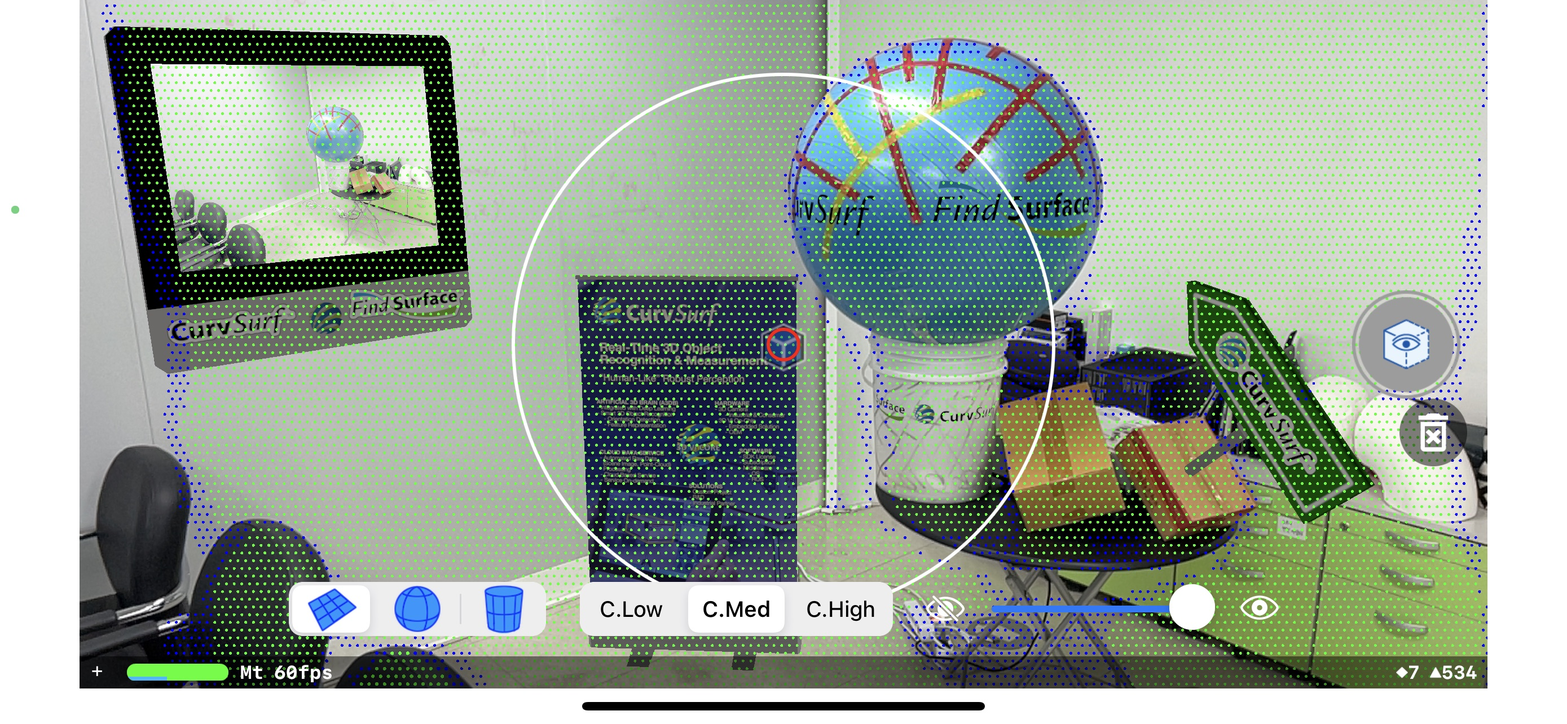
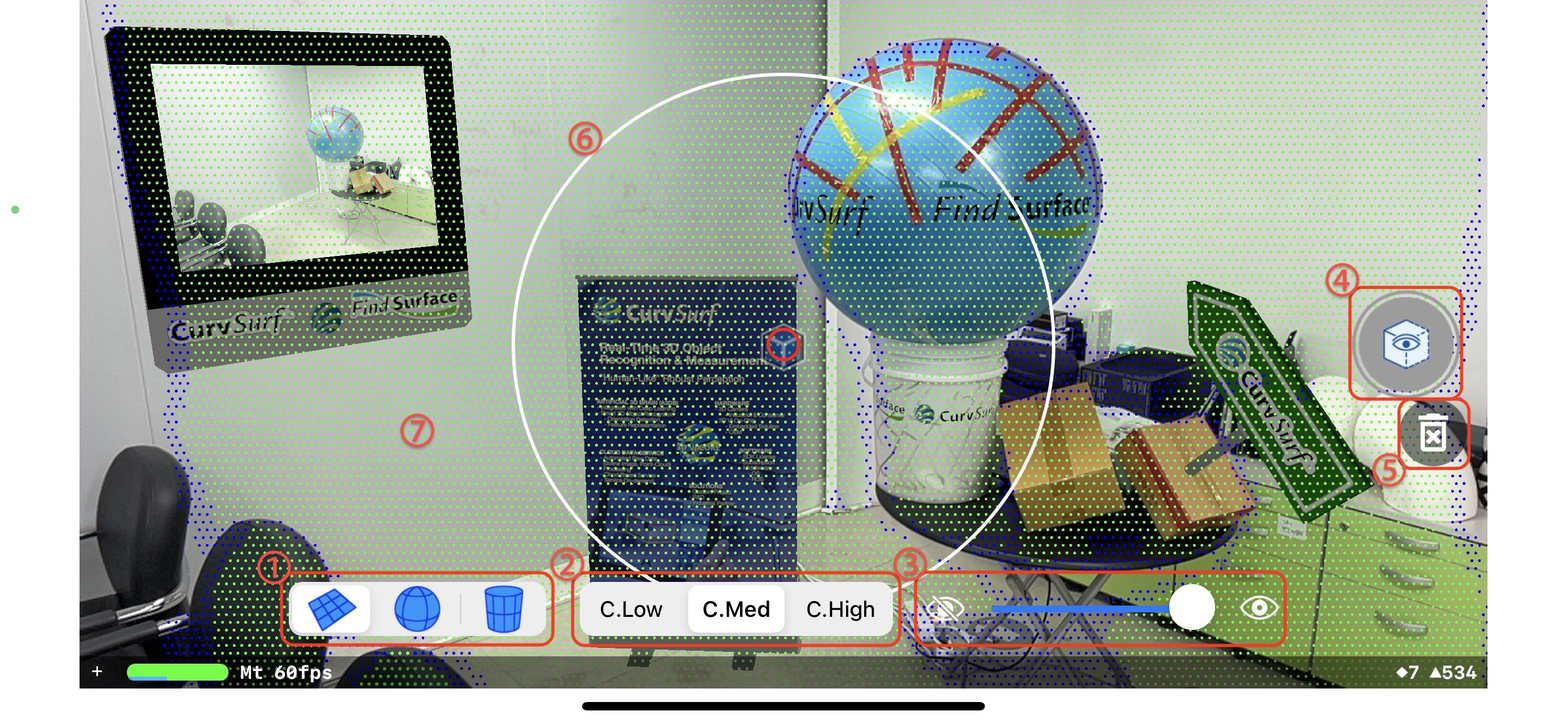
Add numbers in the image in the interface description.

diff --git a/README.md b/README.md
@@ -6,7 +6,7 @@
 
 ## Overview
 
-This demo app demonstrates a real-time AR SceneKit application using FindSurface to search point clouds, which ARKit provides, for geometry shapes. 
+This demo app demonstrates a real-time AR SceneKit application using FindSurface to search point clouds, which ARKit provides, for geometry shapes. The source code of this app is based on the Xcode Augmented Reality (SceneKit, iOS) template project. 
 
 [FindSurfaceFramework](https://github.com/CurvSurf/FindSurface-iOS) is required to build the source code into a program. Download the framework [here](https://github.com/CurvSurf/FindSurface-iOS/releases) and refer to [here](https://github.com/CurvSurf/FindSurface-iOS/blob/master/How-to-import-FindSurface-Framework-to-your-project.md) for an instruction about how to setup your project to build it with the framework.
 
@@ -37,6 +37,7 @@ Compared to the [gui demo](https://github.com/CurvSurf/FindSurface-GUIDemo-iOS),
 
 ![interface](README.images/ar-scene-with-pointcloud.jpg)
 
+> The following descriptions start from the lower-left corner of the picture above and proceed counterclockwise.
 1. [Feature types](https://github.com/CurvSurf/FindSurface#auto-detection) of surfaces to detect (plane/sphere/cylinder only).
 2. Confidence levels to filter point cloud (e.g., the "`C.Med`" option means filtering out the points having "low" confidence).
 3. The opacity of the point cloud and radius indicators.
